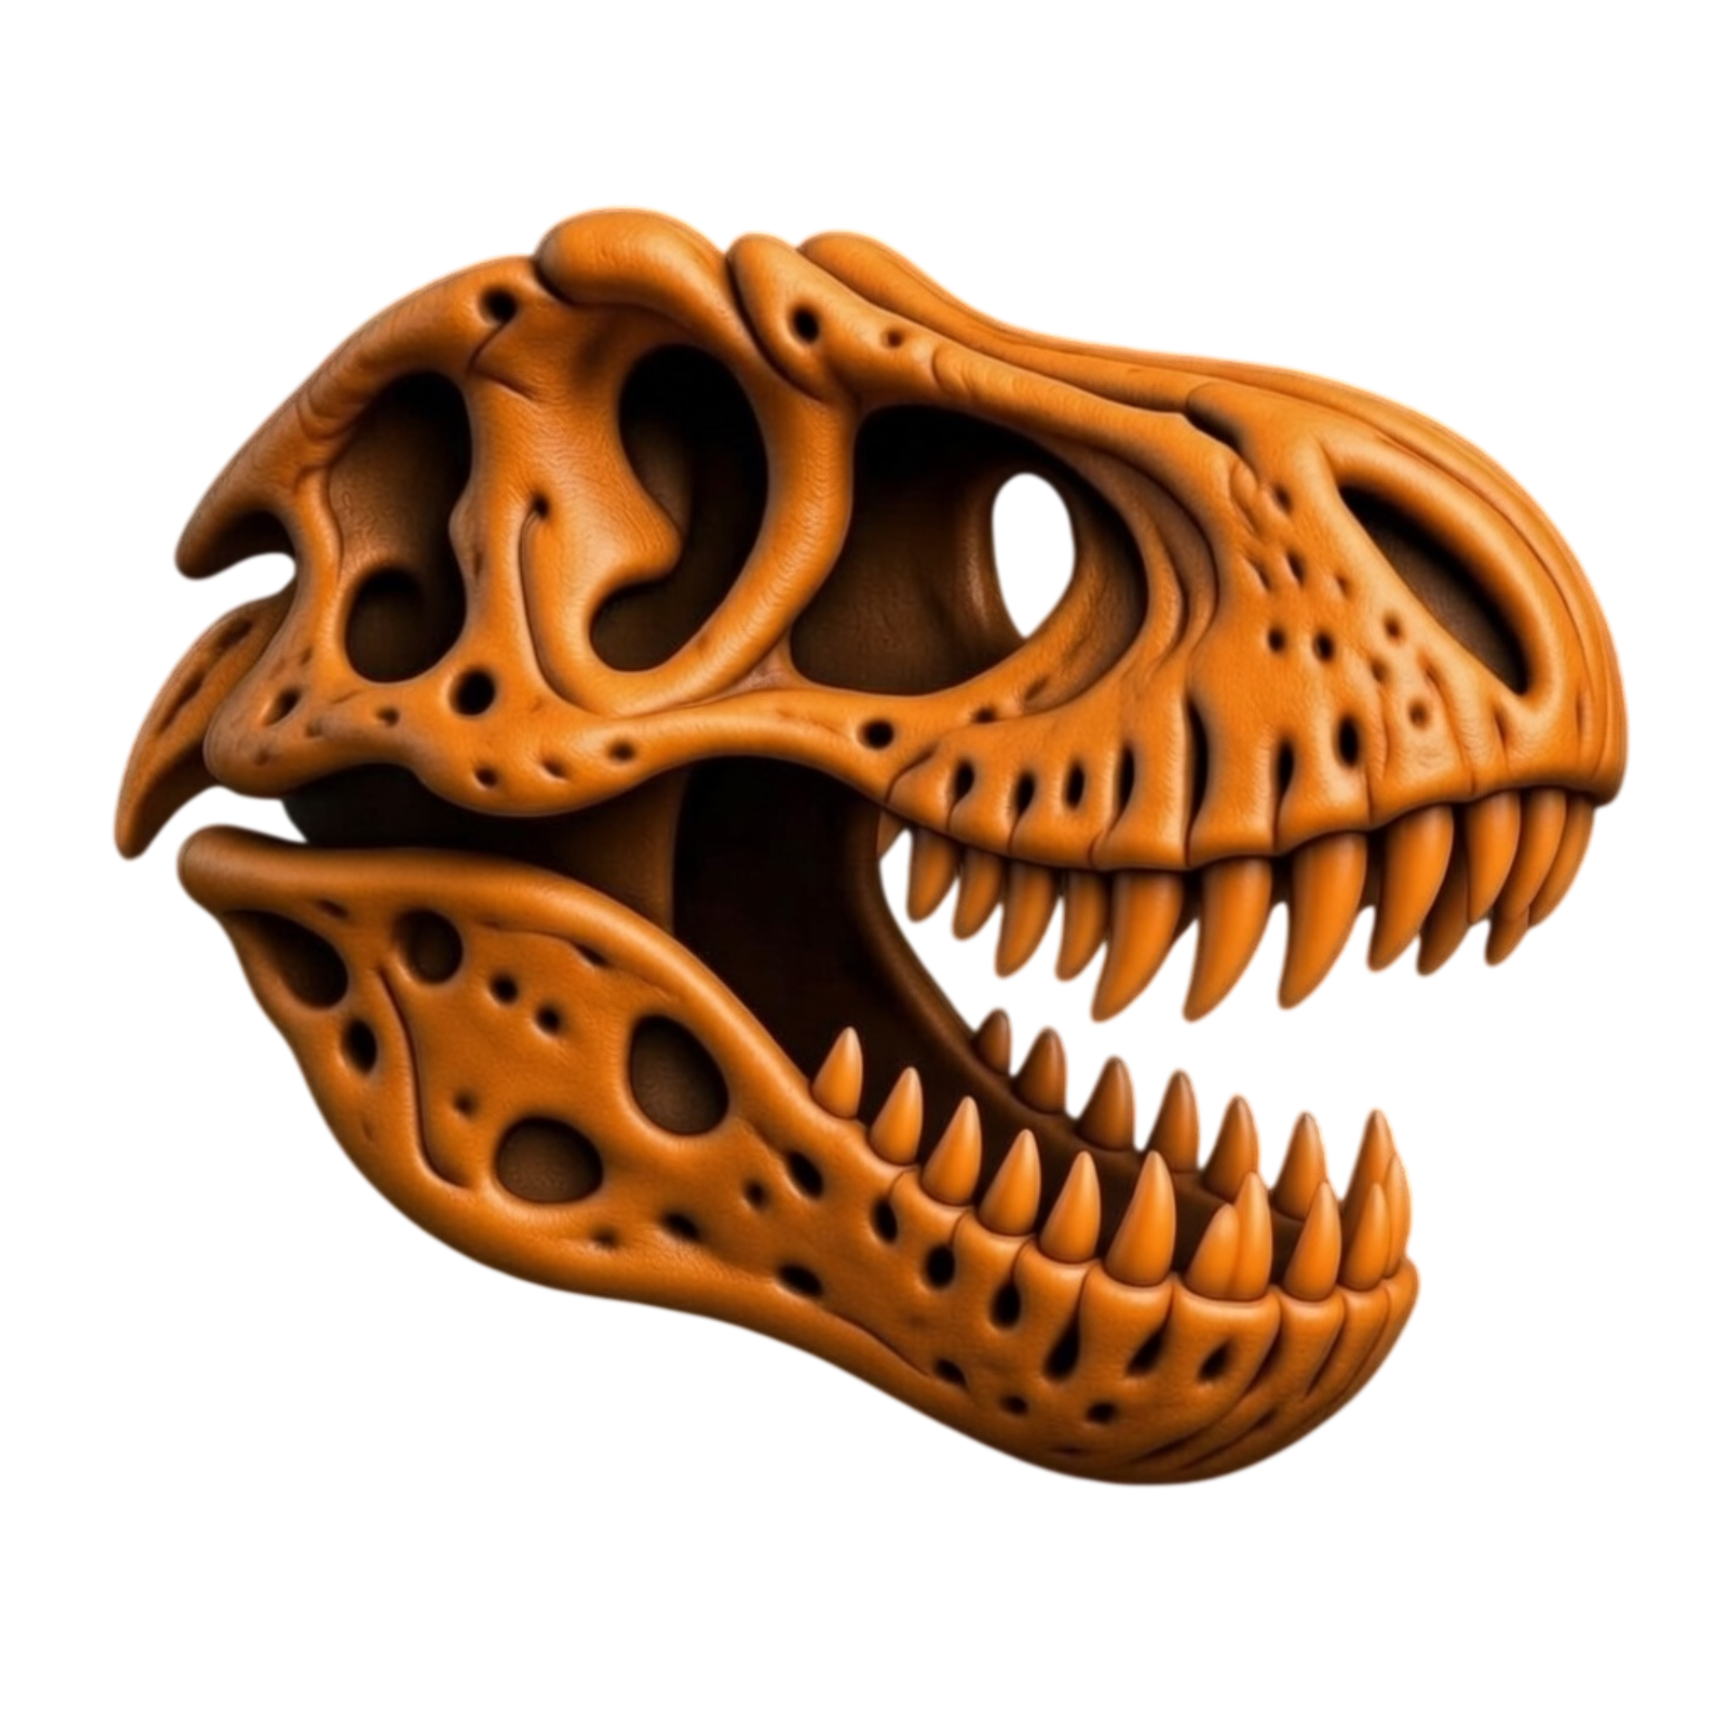
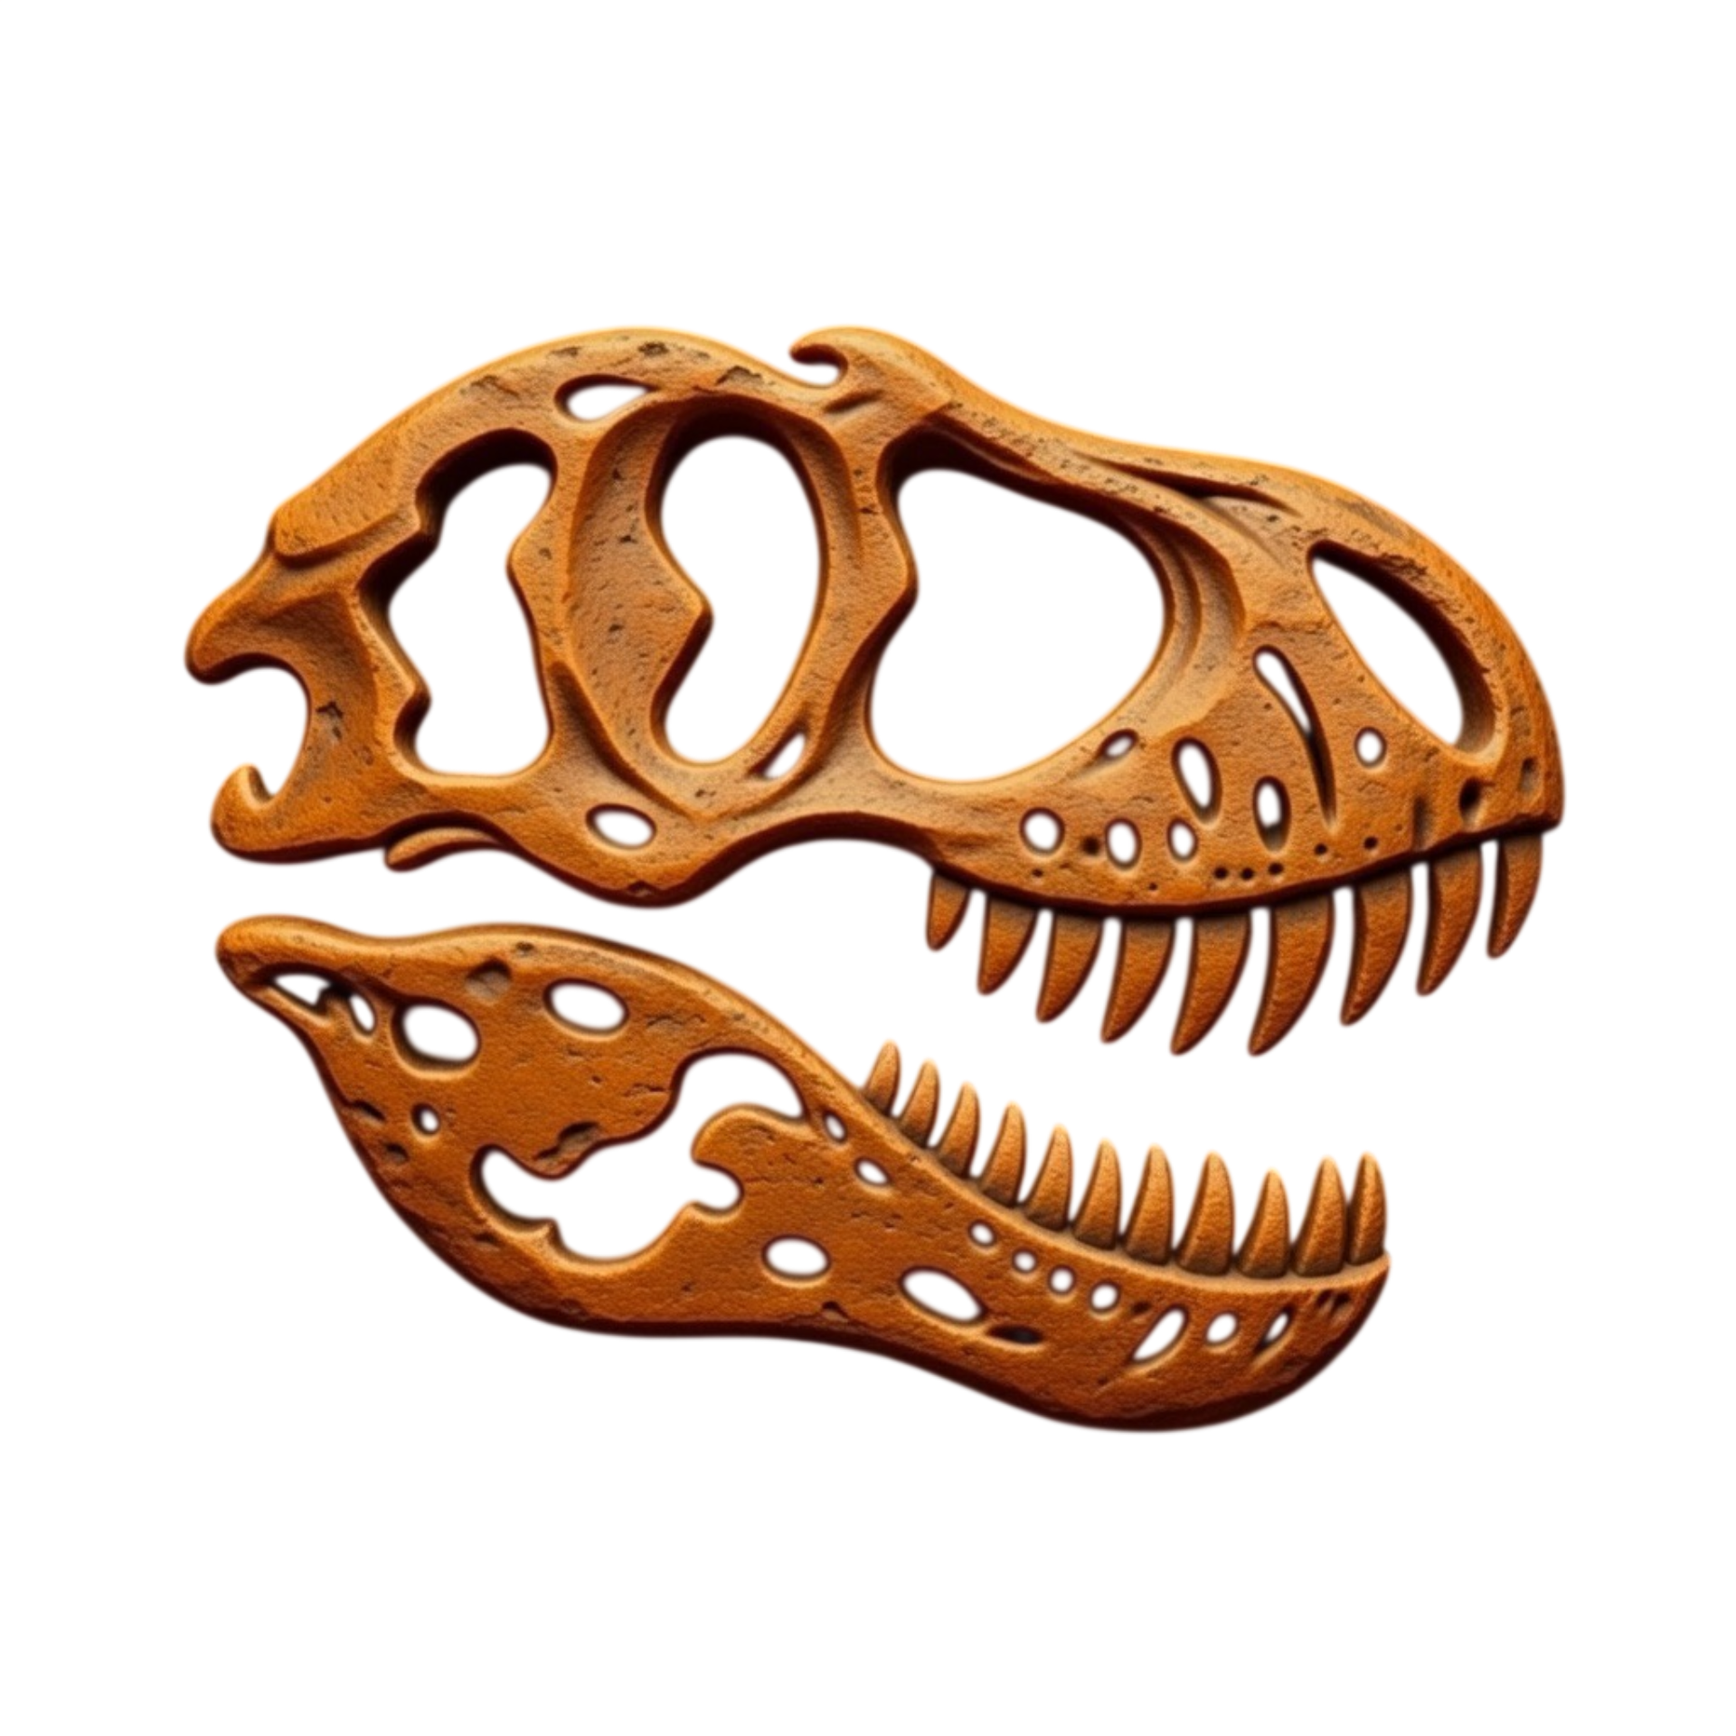
SEO

diff --git a/coming-soon/index.html b/coming-soon/index.html
@@ -3,12 +3,99 @@
 <head>
   <meta charset="UTF-8">
   <meta name="viewport" content="width=device-width, initial-scale=1.0">
-  <title>Key-Rex - Coming Soon</title>
-  <meta name="description" content="Key-Rex: Passwordless authentication powered by Bitcoin Lightning. Coming soon.">
+  <title>Key-Rex - Add Passwordless Bitcoin Lightning Login to Your Website</title>
+  <meta name="description" content="Add passwordless authentication to your website with two lines of code. Key-Rex uses Bitcoin Lightning LNURL-auth — no password databases, no personal data to store, no breach liability. Open source and free forever.">
+  <meta name="keywords" content="Bitcoin authentication, Lightning wallet login, LNURL-auth, passwordless authentication, website login integration, open source authentication, no password database, Bitcoin Lightning Network, website security, developer authentication API">
+  <meta name="author" content="Key-Rex">
+  <meta name="robots" content="index, follow, max-image-preview:large, max-snippet:-1">
+  <link rel="canonical" href="https://keyrex.co/">
+  <meta name="theme-color" content="#f97316">
+
+  <!-- Open Graph / Facebook -->
+  <meta property="og:type" content="website">
+  <meta property="og:url" content="https://keyrex.co/">
+  <meta property="og:site_name" content="Key-Rex">
+  <meta property="og:title" content="Key-Rex - Add Passwordless Lightning Login to Your Website">
+  <meta property="og:description" content="Add passwordless authentication to your website with two lines of code. No password databases, no personal data to store. Open source and free forever.">
+  <meta property="og:image" content="https://keyrex.co/paw2.png">
+  <meta property="og:image:alt" content="Key-Rex logo - Bitcoin Lightning wallet authentication">
+  <meta property="og:locale" content="en_US">
+
+  <!-- Twitter Card -->
+  <meta name="twitter:card" content="summary">
+  <meta name="twitter:title" content="Key-Rex - Add Passwordless Lightning Login to Your Website">
+  <meta name="twitter:description" content="Add passwordless authentication to your website with two lines of code. No password databases, no personal data to store. Open source and free forever.">
+  <meta name="twitter:image" content="https://keyrex.co/paw2.png">
+  <meta name="twitter:image:alt" content="Key-Rex logo - Bitcoin Lightning wallet authentication">
+
+  <!-- Favicons -->
   <link rel="icon" href="paw2.png" type="image/png">
+  <link rel="apple-touch-icon" href="paw2.png">
+
   <link rel="preconnect" href="https://fonts.googleapis.com">
   <link rel="preconnect" href="https://fonts.gstatic.com" crossorigin>
   <link href="https://fonts.googleapis.com/css2?family=Bebas+Neue&family=Inter:wght@300;400;500;600;700&display=swap" rel="stylesheet">
+
+  <!-- Structured Data -->
+  <script type="application/ld+json">
+  {
+    "@context": "https://schema.org",
+    "@graph": [
+      {
+        "@type": "Organization",
+        "@id": "https://keyrex.co/#organization",
+        "name": "Key-Rex",
+        "url": "https://keyrex.co",
+        "logo": {
+          "@type": "ImageObject",
+          "url": "https://keyrex.co/paw2.png"
+        },
+        "email": "cole@keyrex.co",
+        "description": "Open source Bitcoin Lightning wallet authentication service. Add passwordless login to your website using LNURL-auth."
+      },
+      {
+        "@type": "WebSite",
+        "@id": "https://keyrex.co/#website",
+        "url": "https://keyrex.co",
+        "name": "Key-Rex",
+        "publisher": { "@id": "https://keyrex.co/#organization" },
+        "description": "Add passwordless authentication to your website with Bitcoin Lightning. Built for website owners and developers."
+      },
+      {
+        "@type": "SoftwareApplication",
+        "name": "Key-Rex",
+        "applicationCategory": "DeveloperApplication",
+        "operatingSystem": "Web",
+        "url": "https://keyrex.co",
+        "offers": {
+          "@type": "Offer",
+          "price": "0",
+          "priceCurrency": "USD"
+        },
+        "description": "Open source Bitcoin Lightning wallet authentication. Add passwordless login to your website with two lines of code. Free forever, no personal data collected.",
+        "featureList": [
+          "Passwordless Lightning wallet authentication",
+          "Open source under MIT License",
+          "No personal data collection",
+          "Unlimited sign-ins and domains",
+          "Two-line code integration",
+          "LNURL-auth protocol support",
+          "Works alongside existing authentication",
+          "Battle-tested ECDSA cryptography"
+        ]
+      },
+      {
+        "@type": "WebPage",
+        "@id": "https://keyrex.co/#webpage",
+        "url": "https://keyrex.co",
+        "name": "Key-Rex - Add Passwordless Bitcoin Lightning Login to Your Website",
+        "description": "Add passwordless authentication to your website with two lines of code. No password databases to secure, no personal data to store.",
+        "isPartOf": { "@id": "https://keyrex.co/#website" },
+        "about": { "@id": "https://keyrex.co/#organization" }
+      }
+    ]
+  }
+  </script>
   <style>
     *, *::before, *::after {
       margin: 0;
@@ -508,82 +595,84 @@
         <div class="logo-section">
           <img
             src="/paw2.png"
-            alt="Key-Rex"
+            alt="Key-Rex - Bitcoin Lightning wallet authentication service"
             class="logo-img"
+            width="320"
+            height="320"
           >
         </div>
 
         <!-- Coming Soon Badge -->
-        <div class="badge">Coming Soon</div>
+        <span class="badge" aria-label="Coming soon">Coming Soon</span>
 
         <!-- Headline -->
         <h1 class="headline">Authentication, Unchained</h1>
 
         <!-- Subheadline -->
         <p class="subheadline">
-          Passwordless login built on Bitcoin.
-          Key-Rex uses the Lightning Network's LNURL-auth protocol to replace
-          passwords with cryptographic proof — no emails, no personal data, just your wallet.
+          Add passwordless login to your website in minutes.
+          Key-Rex lets your visitors sign in with their Bitcoin Lightning wallet
+          using the LNURL-auth protocol — no password databases to secure, no personal data to store, no breach liability.
           <span class="muted">
-            Open source. Privacy-first by design. Powered by Bitcoin.
+            Two lines of code. Open source. Free forever.
           </span>
         </p>
 
         <!-- Feature Hints -->
-        <div class="features">
-          <div class="feature-card">
-            <div class="feature-icon">&#8383;</div>
-            <div class="feature-title">Built on Bitcoin</div>
-            <div class="feature-desc">Leverages the Bitcoin Lightning Network for trustless, decentralized authentication</div>
-          </div>
-          <div class="feature-card">
-            <div class="feature-icon">&#9889;</div>
-            <div class="feature-title">Lightning Fast</div>
-            <div class="feature-desc">One-tap sign in using any Lightning wallet — Alby, Phoenix, Zeus, and more</div>
-          </div>
-          <div class="feature-card">
-            <div class="feature-icon">&#128274;</div>
-            <div class="feature-title">No Passwords</div>
-            <div class="feature-desc">Cryptographic signatures replace passwords — nothing to hack or leak</div>
-          </div>
-          <div class="feature-card">
-            <div class="feature-icon">&#128272;</div>
-            <div class="feature-title">Your Wallet Is Your Identity</div>
-            <div class="feature-desc">Your Bitcoin wallet becomes your universal login — no accounts to create or manage</div>
-          </div>
+        <section class="features" aria-label="Key features">
           <div class="feature-card">
             <div class="feature-icon">&#128736;</div>
             <div class="feature-title">Two Lines of Code</div>
-            <div class="feature-desc">Drop-in embed script that works on any website with minimal setup</div>
+            <div class="feature-desc">Add a script tag and a div to your site — Key-Rex handles the entire authentication flow for you</div>
+          </div>
+          <div class="feature-card">
+            <div class="feature-icon">&#128274;</div>
+            <div class="feature-title">No Password Database</div>
+            <div class="feature-desc">Stop storing passwords and worrying about breaches — cryptographic signatures handle authentication</div>
+          </div>
+          <div class="feature-card">
+            <div class="feature-icon">&#128272;</div>
+            <div class="feature-title">Zero Personal Data</div>
+            <div class="feature-desc">No emails, names, or PII to collect, store, or protect — reduce your compliance burden</div>
+          </div>
+          <div class="feature-card">
+            <div class="feature-icon">&#9889;</div>
+            <div class="feature-title">Instant Sign-Ins</div>
+            <div class="feature-desc">Your visitors tap once in their Lightning wallet — no email verification delays or forgotten passwords</div>
+          </div>
+          <div class="feature-card">
+            <div class="feature-icon">&#128101;</div>
+            <div class="feature-title">Keep Your Existing Auth</div>
+            <div class="feature-desc">Add Key-Rex alongside email/password or OAuth — offer it as another sign-in option, not a replacement</div>
           </div>
           <div class="feature-card">
             <div class="feature-icon">&#127760;</div>
             <div class="feature-title">Open Source</div>
-            <div class="feature-desc">Fully transparent MIT-licensed code — verify exactly how it works</div>
+            <div class="feature-desc">MIT-licensed and fully transparent — audit the code, self-host it, or verify there's no tracking</div>
+          </div>
+          <div class="feature-card">
+            <div class="feature-icon">&#8383;</div>
+            <div class="feature-title">Built on Bitcoin</div>
+            <div class="feature-desc">Uses the same ECDSA cryptography that secures billions in Bitcoin — battle-tested, not experimental</div>
           </div>
           <div class="feature-card">
             <div class="feature-icon">&#128737;</div>
-            <div class="feature-title">Battle-Tested Cryptography</div>
-            <div class="feature-desc">Built on the same ECDSA signatures that secure billions in Bitcoin transactions</div>
+            <div class="feature-title">Nothing to Breach</div>
+            <div class="feature-desc">No password hashes, no email lists, no PII stored — there's nothing for attackers to steal</div>
           </div>
-          <div class="feature-card">
-            <div class="feature-icon">&#128101;</div>
-            <div class="feature-title">Works Alongside Existing Auth</div>
-            <div class="feature-desc">Add Lightning login as an option next to your current sign-in methods</div>
-          </div>
-        </div>
+        </section>
 
         <!-- How It Works -->
-        <div class="how-it-works">
-          <h2 class="how-it-works-title">How It Works</h2>
+        <section class="how-it-works" aria-label="How to integrate">
+          <h2 class="how-it-works-title">How Your Visitors Sign In</h2>
           <div class="flow">
-            <!-- Step 1: Wallet -->
+            <!-- Step 1 -->
             <div class="flow-step">
               <div class="flow-icon-wrap">
                 <span class="flow-icon">&#128241;</span>
               </div>
-              <span class="flow-label">Open Wallet</span>
-              <span class="flow-sublabel">Any Lightning wallet</span>
+              <span class="flow-label">Click Button</span>
+              <span class="flow-sublabel">On your website</span>
             </div>
 
             <!-- Arrow 1 -->
@@ -593,13 +682,13 @@
               </svg>
             </div>
 
-            <!-- Step 2: Sign -->
+            <!-- Step 2 -->
             <div class="flow-step">
               <div class="flow-icon-wrap">
                 <span class="flow-icon">&#9889;</span>
               </div>
-              <span class="flow-label">One Tap</span>
-              <span class="flow-sublabel">Cryptographic signature</span>
+              <span class="flow-label">Approve in Wallet</span>
+              <span class="flow-sublabel">One tap</span>
             </div>
 
             <!-- Arrow 2 -->
@@ -609,23 +698,23 @@
               </svg>
             </div>
 
-            <!-- Step 3: Done -->
+            <!-- Step 3 -->
             <div class="flow-step">
               <div class="flow-icon-wrap">
                 <span class="flow-icon">&#10003;</span>
               </div>
-              <span class="flow-label">Signed In</span>
-              <span class="flow-sublabel">No password needed</span>
+              <span class="flow-label">You Get Their ID</span>
+              <span class="flow-sublabel">Unique per user</span>
             </div>
           </div>
-        </div>
+        </section>
 
         <!-- Signup Card -->
-        <div class="signup-card">
-          <h2 class="signup-title">Be the First to Know</h2>
+        <section class="signup-card" aria-label="Sign up for early access">
+          <h2 class="signup-title">Get Early Access</h2>
           <p class="signup-desc">
-            Interested in adding Lightning authentication to your site?
-            Drop us a message and we'll reach out when we launch.
+            Want to be among the first website owners to integrate Key-Rex?
+            Tell us about your site and we'll reach out when we launch.
           </p>
 
           <form id="signup-form" action="https://formsubmit.co/cole@keyrex.co" method="POST">
@@ -659,7 +748,7 @@
                 class="form-input form-textarea"
                 name="Message"
                 id="message"
-                placeholder="Tell us about your project or what you're interested in (optional)"
+                placeholder="Tell us about your website and what you're building (optional)"
               ></textarea>
             </div>
             <button type="submit" class="submit-btn" id="submit-btn">
@@ -667,19 +756,19 @@
                 <path d="M4 4h16c1.1 0 2 .9 2 2v12c0 1.1-.9 2-2 2H4c-1.1 0-2-.9-2-2V6c0-1.1.9-2 2-2z"/>
                 <polyline points="22,6 12,13 2,6"/>
               </svg>
-              Get in Touch
+              Get Early Access
             </button>
           </form>
 
-          <div class="form-status" id="form-status"></div>
-        </div>
+          <div class="form-status" id="form-status" role="status" aria-live="polite"></div>
+        </section>
 
       </div>
     </main>
 
     <!-- Footer -->
     <footer class="footer">
-      <p>&copy; 2025 Key-Rex &middot; Open Source &middot; Bitcoin Lightning Authentication</p>
+      <p>&copy; 2025 Key-Rex &middot; Open Source &middot; Bitcoin Lightning Authentication &middot; <a href="https://keyrex.co">keyrex.co</a></p>
       <p style="margin-top: 0.25rem;">
         Questions? Email us at <a href="mailto:cole@keyrex.co">cole@keyrex.co</a>
       </p>

diff --git a/webapp/app/embed/route.ts b/webapp/app/embed/route.ts
@@ -509,8 +509,8 @@ export async function GET(request: NextRequest) {
     if (!document.getElementById('keyrex-responsive-styles')) {
       const styleEl = document.createElement('style');
       styleEl.id = 'keyrex-responsive-styles';
-      // COMPACT: Reduced mobile logo size from 4rem to 3rem
-      styleEl.textContent = '@media (max-width: 640px) { [data-keyrex="wrapper"] { flex-direction: column; gap: 0.75rem; } [data-keyrex="button"] img { max-height: 3rem !important; } }';
+      // COMPACT: Reduced mobile logo size from 4rem to 4.5rem
+      styleEl.textContent = '@media (max-width: 640px) { [data-keyrex="wrapper"] { flex-direction: column; gap: 0.75rem; } [data-keyrex="button"] img { max-height: 4.5rem !important; } }';
       document.head.appendChild(styleEl);
     }
     
@@ -532,7 +532,7 @@ export async function GET(request: NextRequest) {
     const logoImg = document.createElement('img');
     logoImg.src = baseUrl + '/images/sign-in-with-paw.png';
     logoImg.alt = 'Sign in with Key-Rex';
-    logoImg.style.cssText = 'height: auto; width: auto; max-height: 5rem; object-fit: contain; display: block;';
+    logoImg.style.cssText = 'height: auto; width: auto; max-height: 7rem; object-fit: contain; display: block;';
     logoImg.onload = function() {
       console.log('Key-Rex: Main logo loaded successfully:', logoImg.src);
     };
